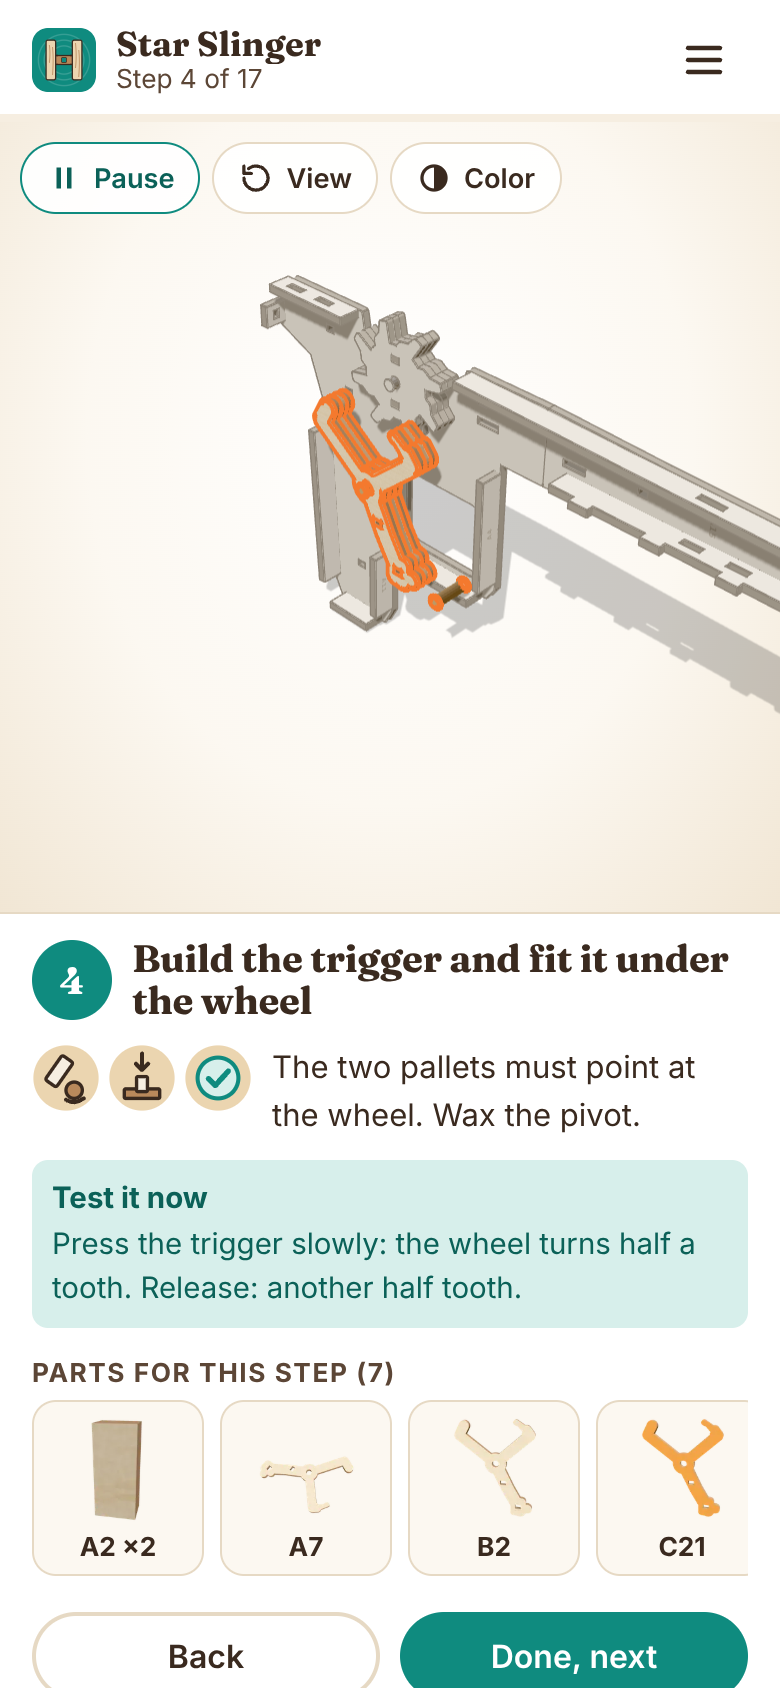
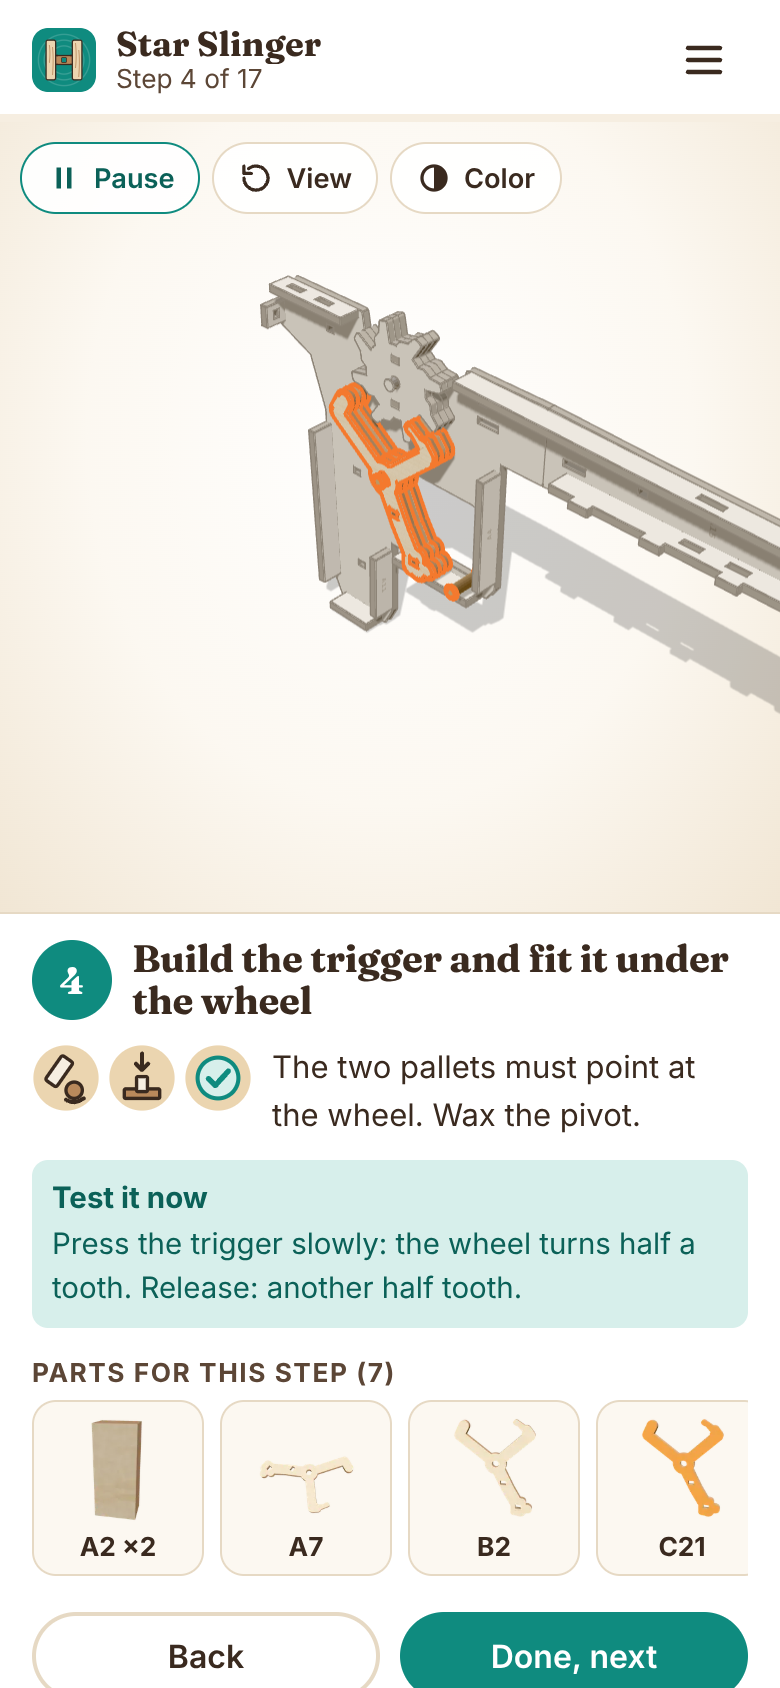
Preview: fix the 3D app kit picker and in-page links that led to a missing page
With <base> at the site root, "#main", "#kits" and the app's kit cards ("#/dragon/step/1") pointed at the site folder, which the host does not serve. Hash links now include the page name, and the redirect pages for old kit addresses get a <base> and a rewritten refresh target. The test now serves the build like the host (no folder addresses), checks every link in every page, and taps through the hub, app picker, home page, kit page and order list.

Claude-Session: https://claude.ai/code/session_013GpLQ7EJFvbKk1fPgQCCvo

Changed region(s): [[0.4, 0.2156, 0.6154, 0.3697]]

diff --git a/tools/test_preview.js b/tools/test_preview.js
@@ -1,28 +1,67 @@
-// Smoke test for the preview build: node tools/test_preview.js http://localhost:PORT OUTDIR
+// Test the preview build the way the claude.ai host serves it:  node tools/test_preview.js PREVIEW_DIR [SCREENSHOT_DIR]
+// The built-in server only serves real files (a folder address is a 404, like on the host), every link in every
+// page must point at a file in the build, and the test taps through the main paths a visitor uses.
 // jsDelivr is not reachable from the build machine, so its three.js URLs are answered from node_modules/three
 // (the same version, 0.169.0): this proves the import map and paths are right.
 const { chromium } = require('../node_modules/playwright');
 const fs = require('fs');
+const http = require('http');
 const path = require('path');
+
+const root = path.resolve(process.argv[2] || '');
+const out = process.argv[3] || 'review/preview';
+const three = path.resolve(__dirname, '../node_modules/three');
+const TYPES = { '.html': 'text/html', '.js': 'text/javascript', '.css': 'text/css', '.json': 'application/json', '.csv': 'text/csv',
+  '.svg': 'image/svg+xml', '.png': 'image/png', '.jpg': 'image/jpeg', '.webp': 'image/webp', '.pdf': 'application/pdf' };
+const problems = [];
+
+function fileFor(urlPath) {
+  const f = path.join(root, decodeURIComponent(urlPath));
+  return f.startsWith(root) && fs.existsSync(f) && fs.statSync(f).isFile() ? f : null;
+}
+
+function walk(dir) {
+  return fs.readdirSync(dir, { withFileTypes: true }).flatMap(e => e.isDirectory() ? walk(path.join(dir, e.name)) : [path.join(dir, e.name)]);
+}
+
+// Every href and src in every page must resolve (through <base> if the page has one) to a file in the build.
+function checkLinks() {
+  let n = 0;
+  for (const f of walk(root).filter(f => f.endsWith('.html'))) {
+    const rel = path.relative(root, f).split(path.sep).join('/');
+    const html = fs.readFileSync(f, 'utf8');
+    const scan = html.replace(/<base [^>]*>/g, '');
+    const page = new URL('http://host/' + rel);
+    const b = html.match(/<base href="([^"]*)"/);
+    const base = b ? new URL(b[1], page) : page;
+    for (const m of scan.matchAll(/\s(?:href|src|content="\d+;\s*url)="?([^"]*)"/g)) {
+      const u = m[1];
+      if (!u || u.includes('${') || /^(https?:|mailto:|tel:|data:|javascript:)/.test(u)) continue;
+      const t = new URL(u, base);
+      n++;
+      if (!fileFor(t.pathname)) problems.push(`${rel}: link "${u}" goes to ${t.pathname}, which is not a file`);
+      else if (u.startsWith('#') && t.pathname !== page.pathname) problems.push(`${rel}: "${u}" leaves the page (goes to ${t.pathname})`);
+    }
+  }
+  return n;
+}
+
 (async () => {
-  const base = process.argv[2], out = process.argv[3] || 'review/preview';
+  if (!fs.existsSync(path.join(root, 'index.html'))) { console.error('usage: node tools/test_preview.js PREVIEW_DIR [SCREENSHOT_DIR]'); process.exit(2); }
   fs.mkdirSync(out, { recursive: true });
-  const three = path.resolve(__dirname, '../node_modules/three');
+  const links = checkLinks();
+
+  const server = http.createServer((req, res) => {
+    const f = fileFor(new URL(req.url, 'http://host').pathname);
+    if (!f) { res.writeHead(404); res.end('not found'); return; }
+    res.writeHead(200, { 'Content-Type': TYPES[path.extname(f)] || 'application/octet-stream' });
+    fs.createReadStream(f).pipe(res);
+  });
+  await new Promise(r => server.listen(0, '127.0.0.1', r));
+  const base = `http://127.0.0.1:${server.address().port}`;
+
   const browser = await chromium.launch({ args: ['--use-gl=angle', '--use-angle=swiftshader', '--enable-unsafe-swiftshader'] });
-  const pages = [
-    ['hub', '/index.html', 1280, 900],
-    ['site_home', '/site/index.html', 1280, 900],
-    ['site_kit', '/site/kits/star-slinger/index.html', 1280, 900],
-    ['app_step', '/site/build/index.html#/blaster/step/4', 390, 844],
-    ['app_picker', '/site/build/index.html', 390, 844],
-    ['guide_order', '/guides/blaster_test.html', 1100, 900],
-    ['guide_cut', '/guides/how_to_cut.html', 1100, 900],
-    ['planner', '/planner/index.html', 1180, 820],
-    ['sops', '/sops/index.html', 1100, 900],
-    ['hub_phone', '/index.html', 390, 844],
-  ];
-  const problems = [];
-  for (const [name, url, w, h] of pages) {
+  async function open(name, url, w, h) {
     const ctx = await browser.newContext({ viewport: { width: w, height: h }, deviceScaleFactor: w < 500 ? 2 : 1 });
     await ctx.route('https://cdn.jsdelivr.net/npm/three@0.169.0/**', async route => {
       const rel = route.request().url().split('three@0.169.0/')[1];
@@ -36,6 +75,29 @@ const path = require('path');
     page.on('requestfailed', r => { if (!r.url().includes('fonts.g')) problems.push(`${name}: failed ${r.url()}`); });
     page.on('response', r => { if (r.status() >= 400 && !r.url().includes('fonts.g')) problems.push(`${name}: ${r.status()} ${r.url()}`); });
     await page.goto(base + url, { waitUntil: 'load' });
+    return { ctx, page };
+  }
+  async function stepShown(name, page, want) {
+    await page.waitForFunction(() => /Step \d+ of/.test(document.querySelector('#stepCount')?.textContent || ''), null, { timeout: 15000 })
+      .catch(() => {});
+    const t = await page.textContent('#stepCount').catch(() => '');
+    if (!(want || /Step \d+ of/).test(t)) problems.push(`${name}: step counter shows "${t}" at ${page.url()}`);
+  }
+
+  const pages = [
+    ['hub', '/index.html', 1280, 900],
+    ['site_home', '/site/index.html', 1280, 900],
+    ['site_kit', '/site/kits/star-slinger/index.html', 1280, 900],
+    ['app_step', '/site/build/index.html#/blaster/step/4', 390, 844],
+    ['app_picker', '/site/build/index.html', 390, 844],
+    ['guide_order', '/guides/blaster_test.html', 1100, 900],
+    ['guide_cut', '/guides/how_to_cut.html', 1100, 900],
+    ['planner', '/planner/index.html', 1180, 820],
+    ['sops', '/sops/index.html', 1100, 900],
+    ['hub_phone', '/index.html', 390, 844],
+  ];
+  for (const [name, url, w, h] of pages) {
+    const { ctx, page } = await open(name, url, w, h);
     await page.waitForTimeout(name.startsWith('app') || name === 'site_kit' ? 4000 : 1200);
     if (name === 'site_kit') {           // the 3D model loads on request
       const btn = await page.$('button:has-text("Load the 3D model")');
@@ -43,14 +105,36 @@ const path = require('path');
     }
     const sw = await page.evaluate(() => document.documentElement.scrollWidth);
     if (sw > w + 1) problems.push(`${name}: horizontal overflow ${sw}px`);
-    if (name === 'app_step') {
-      const t = await page.textContent('#stepCount').catch(() => '');
-      if (!/Step 4 of/.test(t)) problems.push(`${name}: step counter shows "${t}"`);
-    }
+    if (name === 'app_step') await stepShown(name, page, /Step 4 of/);
     await page.screenshot({ path: `${out}/${name}.png`, fullPage: !name.startsWith('app') });
     await ctx.close();
   }
+
+  // Taps a visitor makes: each must land on a real page that works.
+  const flows = [
+    ['tap: hub > 3D app', '/index.html', 'a.tile >> nth=1', /\/site\/build\/index\.html$/, true],
+    ['tap: app picker > Emberwing', '/site/build/index.html', 'a.kitcard >> nth=1', /\/site\/build\/index\.html$/, true],
+    ['tap: site home > Shop the kits', '/site/index.html', 'a:has-text("Shop the kits")', /\/site\/index\.html$/, false],
+    ['tap: kit page > Build in 3D', '/site/kits/star-slinger/index.html', 'a[href*="build/index.html#/"] >> nth=0', /\/site\/build\/index\.html$/, true],
+    ['tap: hub > order list', '/index.html', 'a:has-text("Open the order list")', /\/guides\/blaster_test\.html$/, false],
+  ];
+  for (const [name, url, sel, want, isApp] of flows) {
+    const { ctx, page } = await open(name, url, 390, 844);
+    await page.waitForTimeout(isApp && url.includes('build') ? 3000 : 800);
+    try {
+      await page.click(sel, { timeout: 5000 });
+      await page.waitForLoadState('load');
+      await page.waitForTimeout(isApp ? 1500 : 500);
+      const p = new URL(page.url()).pathname;
+      if (!want.test(p)) problems.push(`${name}: landed on ${p}`);
+      else if (isApp) await stepShown(name, page);
+    } catch (e) { problems.push(`${name}: ${e.message.split('\n')[0]}`); }
+    await ctx.close();
+  }
+
   await browser.close();
-  console.log(problems.length ? 'PROBLEMS:\n' + problems.join('\n') : `all ${pages.length} pages load without errors`);
+  server.close();
+  console.log(`${links} links checked, ${pages.length} pages and ${flows.length} taps tested`);
+  console.log(problems.length ? 'PROBLEMS:\n' + problems.join('\n') : 'no problems');
   process.exit(problems.length ? 1 : 0);
 })();

diff --git a/tools/build_preview.py b/tools/build_preview.py
@@ -62,16 +62,23 @@ def site_url(u, slug_prefix=''):
     return path + ('#' + frag if frag else '')
 
 
-def rewrite_html(text, depth):
-    base = '../' * depth or './'
+def rewrite_html(text, rel):
+    """rel = the page's path from the site root, e.g. 'faq/index.html'."""
+    base = '../' * rel.count('/') or './'
     text = re.sub(r'<script type="importmap">.*?</script>',
                   f'<script type="importmap">{{"imports":{{"three":"{THREE}/build/three.module.min.js","three/addons/":"{THREE}/examples/jsm/"}}}}</script>',
                   text, flags=re.S)
     text = re.sub(r'<link rel="manifest"[^>]*>', '', text)
-    text = text.replace('<head>', f'<head>\n<base href="{base}">\n{FONTS}', 1)
+    if '<head>' in text:
+        text = text.replace('<head>', f'<head>\n<base href="{base}">\n{FONTS}', 1)
+    else:                                   # the short redirect pages for old kit addresses have no <head>
+        text = re.sub(r'(<meta charset="utf-8">)', rf'\1<base href="{base}">', text, count=1)
+    text = re.sub(r'(content="\d+;\s*url=)(/[^"]*)"', lambda m: m.group(1) + site_url(m.group(2)) + '"', text)
     text = re.sub(r'((?:href|src|data-[a-z-]+)=")(/[^"]*)"', lambda m: m.group(1) + site_url(m.group(2)) + '"', text)
     # absolute paths inside inline scripts
     text = re.sub(r"(['\"`])/(assets|js|css|build|kits)/", r'\1\2/', text)
+    # With <base> at the site root, a bare "#main" would point at the site folder, not this page.
+    text = text.replace('href="#', f'href="{rel}#')
     return text
 
 
@@ -83,6 +90,8 @@ def rewrite_js(text, rel_path):
     text = re.sub(r'const usePath = [^;]+;', 'const usePath = false;   // preview: hash routes only', text)
     text = re.sub(r"(['\"`])/(assets|build|kits)/", r'\1\2/', text)
     text = text.replace('href="/#kits"', 'href="index.html#kits"')
+    # Links the app builds from hash routes need the page name too, because of <base> (see rewrite_html).
+    text = text.replace('href="${routeUrl(', 'href="build/index.html${routeUrl(')
     return text
 
 
@@ -128,7 +137,7 @@ def build_site(out):
             if f.endswith('.glb'):
                 glb_to_gltf_json(src, tgt[:-4] + '.gltf.json')
             elif f.endswith('.html'):
-                open(tgt, 'w').write(rewrite_html(open(src).read(), rel.count('/')).replace('kit.glb', 'kit.gltf.json'))
+                open(tgt, 'w').write(rewrite_html(open(src).read(), rel).replace('kit.glb', 'kit.gltf.json'))
             elif f.endswith('.js'):
                 open(tgt, 'w').write(rewrite_js(open(src).read(), rel).replace("'kit.glb'", "'kit.gltf.json'"))
             elif f.endswith('.css'):

diff --git a/SUMMARY.md b/SUMMARY.md
@@ -23,7 +23,7 @@ Cost is materials and packaging with pre-colored sheets. Profit is after free sh
 7. **Production** (`production/`): a capacity model with takt time and where the bottleneck moves, a tablet planner (orders, cut queue, printable schedule, tracking board, inventory with reorder alerts, quality log with Pareto and a design-change list; 8 of 8 tests pass), seven one-page picture SOPs, a to-scale garage layout and the quality loop.
 8. **Supply** (`supply/`): BOM per kit and for 25 and 100 kits, 2 or more suppliers per item, a startup shopping list (about $7,526 required), reorder points, unit economics at 3 prices with charts, and a legal must-do checklist with sources.
 9. **Records:** `DECISIONS.md` (42 decisions with reasons), `TODO_LUCAS.md`, and review images for every visual in `review/`.
-10. **Blaster test and preview** (`guides/`): an order list for 3 Star Slingers with a direct link for every material, tool and safety item (`BLASTER_TEST.md`, about $165 of materials), and a step-by-step LightBurn cutting guide (`HOW_TO_CUT.md`). The ship now lifts off its stand. A private claude.ai preview shows the website, 3D app, planner, SOPs and guides (`tools/build_preview.py`; 10 of 10 pages load without errors).
+10. **Blaster test and preview** (`guides/`): an order list for 3 Star Slingers with a direct link for every material, tool and safety item (`BLASTER_TEST.md`, about $165 of materials), and a step-by-step LightBurn cutting guide (`HOW_TO_CUT.md`). The ship now lifts off its stand. A private claude.ai preview shows the website, 3D app, planner, SOPs and guides (`tools/build_preview.py`; the test checks 417 links, 10 pages and 5 taps, served like the real host).
 
 ## What is verified
 
@@ -63,5 +63,5 @@ bash tools/rebuild_all.sh             # kits, checks, cut files, renders, bookle
 .venv/bin/python tools/make_start_here.py   # refresh START_HERE.html and run all tests
 node tools/serve.js                   # then open http://localhost:8080 for the website and 3D app
 .venv/bin/python tools/build_preview.py OUT   # private preview copy (hash routes, CDN three.js, glTF JSON)
-node tools/test_preview.js http://localhost:PORT OUT   # check every preview page loads
+node tools/test_preview.js OUT         # serve it like the host, check every link, page and main tap
 ```
